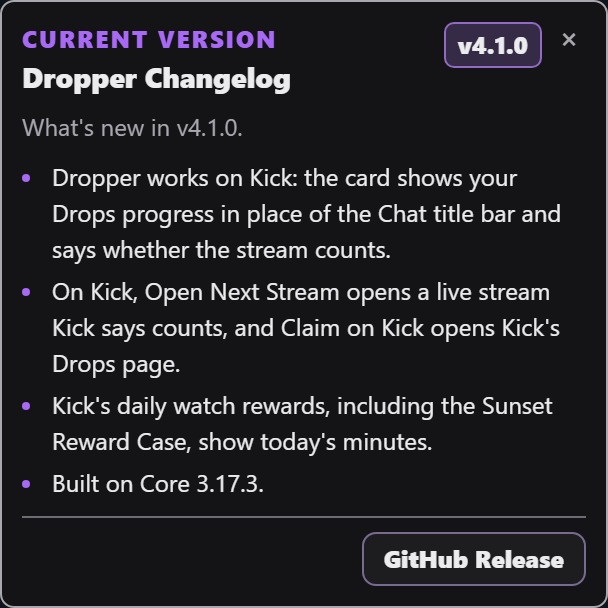
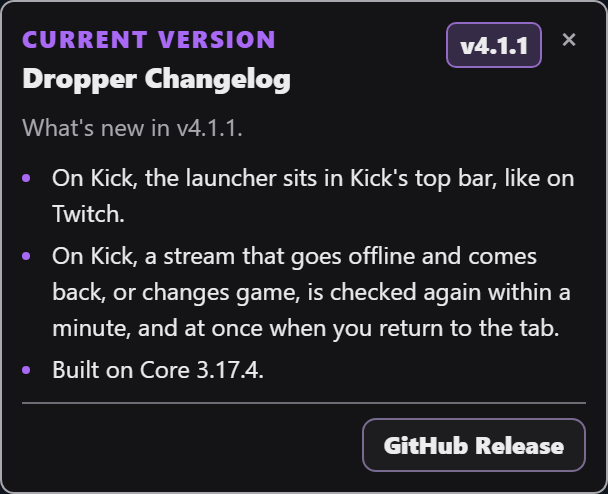
Dropper 4.1.1: Kick launcher in the top bar; stream re-checked when it returns or you come back; built on Core 3.17.4

diff --git a/dropper.user.js b/dropper.user.js
@@ -1,7 +1,7 @@
 // ==UserScript==
 // @name         Dropper for Twitch
 // @namespace    twitch-drops-helper
-// @version      4.1.0
+// @version      4.1.1
 // @description  A browser-only Twitch companion for the streams you choose to watch: track credited reward progress, manage campaigns, and collect earned rewards.
 // @icon         https://raw.githubusercontent.com/ExtraPotions/Dropper/main/assets/dropper-launcher.svg
 // @homepageURL  https://github.com/ExtraPotions/Dropper
@@ -2518,7 +2518,7 @@ const ExpLauncherFlyout = (() => {
 // exp-core owns shared UI, launcher, diagnostics, update, and coordination behavior.
 const ExtraPotionsCore = (() => {
   'use strict';
-  const version = '3.17.3';
+  const version = '3.17.4';
   const sourceVersion = version; // Backward-compatible alias for Core's own foundation version.
   const SUPPORT_URL = 'https://ko-fi.com/expdare';
   const protocol = 'exp-core-coordination-v1';
@@ -4051,16 +4051,28 @@ const ExtraPotionsCore = (() => {
   function twitchSlot() {
     const bar = document.querySelector('nav[data-a-target="top-nav-container"] .top-nav__menu');
     if (bar) watchSlotNode(bar);
-    if (!bar || bar.children.length < 3) return null;
+    return bar && bar.children.length >= 3 ? topBarSlot(bar, bar.children[1], bar.children[2], 'input[type="search"],input[data-a-target="tw-input"]') : null;
+  }
+  // Kick: the same place in its wide-window top bar (collapse and logo, centred search, then its icons last).
+  // Narrow windows swap in a different bar, and theater mode hides it; both leave the launcher in the corner.
+  function kickSlot() {
+    const search = 'input[data-testid="search"]';
+    const bar = [...document.querySelectorAll('nav')].find(node => node.querySelector(search) && visibleBox(node)) || null;
+    if (bar) watchSlotNode(bar);
+    const middle = bar && [...bar.children].find(child => child.querySelector(search)), right = bar?.lastElementChild;
+    return middle && right && right !== middle ? topBarSlot(bar, middle, right, search) : null;
+  }
+  // The slot sits between the search box (in `middle`) and the first icon in `iconGroup`.
+  function topBarSlot(bar, middle, iconGroup, searchSelector) {
     const barBox = visibleBox(bar);
     if (!barBox || barBox.height < 40 || barBox.top < -1 || barBox.top > 8) return null;
-    const search = [...bar.children[1].querySelectorAll('input[type="search"],input[data-a-target="tw-input"]')].map(visibleBox).filter(Boolean);
+    const search = [...middle.querySelectorAll(searchSelector)].map(visibleBox).filter(Boolean);
     if (!search.length) return null;
     // Theater mode draws the player over the bar, which keeps its size: the bar must be on top where search is.
     const probe = document.elementFromPoint(search[0].left + search[0].width / 2, search[0].top + search[0].height / 2);
     if (!probe || !bar.contains(probe)) return null;
-    const searchEnd = Math.max(...[...bar.children[1].querySelectorAll('input,button,a')].map(visibleBox).filter(Boolean).map(box => box.right));
-    const icons = [...bar.children[2].querySelectorAll('button,a,input')].map(visibleBox).filter(Boolean);
+    const searchEnd = Math.max(...[...middle.querySelectorAll('input,button,a')].map(visibleBox).filter(Boolean).map(box => box.right));
+    const icons = [...iconGroup.querySelectorAll('button,a,input')].map(visibleBox).filter(Boolean);
     if (!icons.length) return null;
     const right = Math.min(...icons.map(box => box.left)) - 16, left = right - FLYOUT_TILE;
     if (left < searchEnd + 8) return null;
@@ -4095,7 +4107,7 @@ const ExtraPotionsCore = (() => {
     top = Math.max(8, Math.min(innerHeight - size - 8, top));
     return {left:Math.round(left),top:Math.round(top),dock:'right',size,shape:'circle'};
   }
-  const SITE_SLOTS = Object.freeze([{ host:/(^|\.)twitch\.tv$/, find:twitchSlot },{ host:/^(www|sh)\.reddit\.com$/, find:redditSlot }]);
+  const SITE_SLOTS = Object.freeze([{ host:/(^|\.)twitch\.tv$/, find:twitchSlot },{ host:/(^|\.)kick\.com$/, find:kickSlot },{ host:/^(www|sh)\.reddit\.com$/, find:redditSlot }]);
   let slotMemo = null, frozenSlot;
   function siteSlot() {
     // While the flyout is open the launcher stays put, so the open flyout never jumps under the pointer.
@@ -10989,6 +11001,7 @@ const ExtraPotionsCore = (() => {
   const UPDATE_RELOAD_PENDING_TTL_MS = 2 * 60 * 1000;
   const QUIET_RELEASES = Object.freeze(['3.4.43', '3.4.30', '3.4.27', '3.4.26']);
   const RELEASE_NOTES = {
+    '4.1.1': ["On Kick, the launcher sits in Kick's top bar, like on Twitch.", "On Kick, a stream that goes offline and comes back, or changes game, is checked again within a minute, and at once when you return to the tab.", "Built on Core 3.17.4."],
     '4.1.0': ["Dropper works on Kick: the card shows your Drops progress in place of the Chat title bar and says whether the stream counts.", "On Kick, Open Next Stream opens a live stream Kick says counts, and Claim on Kick opens Kick's Drops page.", "Kick's daily watch rewards, including the Sunset Reward Case, show today's minutes.", "Built on Core 3.17.3."],
     '4.0.2': ["The one-line card (Drop Details off) has its own Menu button.", "The Dropper gem is purple throughout. Built on Core 3.17.2."],
     '4.0.1': ["Release notes show in full in the changelog card.", "Built on Core 3.17.1."],
@@ -13683,7 +13696,7 @@ const ExtraPotionsCore = (() => {
   // Wiring and startup: the only file that reads browser globals. It builds every module from the real storages,
   // the userscript manager's functions and the page, then runs the heartbeat. Page reading, tabs, the data layer
   // and the menu are wired here as their modules land (milestone 3).
-  const APP_VERSION = '4.1.0';
+  const APP_VERSION = '4.1.1';
   const HEARTBEAT_MS = 5000;
   const ACTIVITY_LOG_LIMIT = 40;
   const SECRET_META = /token|cookie|auth|password|integrity|secret/i;
@@ -13933,6 +13946,8 @@ const ExtraPotionsCore = (() => {
   const KICK_PROGRESS_MS = 60 * 1000;
   const KICK_CAMPAIGNS_MS = 10 * 60 * 1000;
   const KICK_ELIGIBILITY_MS = 5 * 60 * 1000;
+  // A stream ends, restarts or changes category under an open page, so the channel is looked up again this often.
+  const KICK_CHANNEL_MS = 60 * 1000;
   // Kick adds credited minutes in steps; new minutes within this window read as earning.
   const KICK_CREDIT_FRESH_MS = 6 * 60 * 1000;
   const KICK_NEXT_STREAM_CHECKS = 6;
@@ -13943,12 +13958,12 @@ const ExtraPotionsCore = (() => {
   // A Kick request that stalls must not freeze the card.
   const KICK_REQUEST_MS = 15 * 1000;
   // First path segments that are Kick's own pages, not channels.
-  const KICK_RESERVED = new Set(['', 'drops', 'browse', 'following', 'categories', 'category', 'search', 'events', 'settings', 'dashboard', 'subscriptions', 'video', 'videos', 'clips', 'clip', 'login', 'signup', 'kicks', 'messages', 'notifications', 'support', 'about', 'creator', 'terms-of-service', 'privacy-policy', 'community-guidelines', 'dmca-policy', 'api']);
+  const KICK_RESERVED = new Set(['', 'drops', 'browse', 'following', 'categories', 'category', 'search', 'events', 'settings', 'dashboard', 'subscriptions', 'video', 'videos', 'clips', 'clip', 'login', 'signup', 'kicks', 'messages', 'notifications', 'support', 'about', 'creator', 'terms-of-service', 'privacy-policy', 'community-guidelines', 'dmca-policy', 'api', 'collectibles']);
   const KICK_CHAT_HEADER = '#channel-chatroom > .contents > div:first-child';
   const KICK_SITE_BASE = Object.freeze({
     id: 'kick', name: 'Kick', twitchControls: false,
     chatToggle: `${KICK_CHAT_HEADER} > div:first-child > button`,
-    keepClear: `${KICK_CHAT_HEADER} > div:first-child > button,#injected-channel-player [class*="controls"]`,
+    keepClear: `${KICK_CHAT_HEADER} > div:first-child > button,#injected-channel-player [class*="controls"],nav:has(input[data-testid="search"])`,
     chatContent: '#channel-chatroom', chatTitle: KICK_CHAT_HEADER, stripHeader: KICK_CHAT_HEADER,
     chatTargets: '#channel-chatroom,#channel-chatroom > .contents',
     loginUrl: 'https://kick.com/login',
@@ -14123,7 +14138,7 @@ const ExtraPotionsCore = (() => {
     const kick = createKickClient({ pageFetch: typeof pageWindow.fetch === 'function' ? pageWindow.fetch.bind(pageWindow) : null, cookie: readCookie, log });
     const state = {
       progress: [], challenges: [], campaigns: [], progressAt: 0, campaignsAt: 0, error: '', loginNeeded: false,
-      slug: '', channel: null, channelFor: '', counting: null, countingAt: 0, countingFor: '',
+      slug: '', channel: null, channelAt: 0, channelFailed: '', counting: null, countingAt: 0, countingFor: '',
       credit: { id: '', minutes: null, at: 0 }, searching: false, notice: '',
     };
     let ui = null, timer = 0, busy = false;
@@ -14147,19 +14162,25 @@ const ExtraPotionsCore = (() => {
       state.campaignsAt = Date.now();
       try { state.campaigns = await kick.campaigns(); } catch (error) { log('kick-campaigns', cleanText(error?.message || error)); }
     }
-    // The open channel, then which campaigns Kick says it counts toward.
-    async function refreshChannel() {
+    // The open channel, then which campaigns Kick says it counts toward. Both are looked up again while the page
+    // stays open: a stream that ends and comes back, or moves category, gets a fresh answer within a minute.
+    async function refreshChannel(force = false) {
       const slug = kickChannelSlug();
-      if (slug !== state.slug) { state.slug = slug; state.channel = null; state.channelFor = ''; state.counting = null; state.countingFor = ''; }
-      if (!slug) return;
-      if (state.channelFor !== slug) {
-        state.channelFor = slug;
-        try { state.channel = await kick.channel(slug); } catch (error) { state.channel = null; log('kick-channel', cleanText(error?.message || error), { slug }); return; }
+      if (slug !== state.slug) { state.slug = slug; state.channel = null; state.channelAt = 0; state.channelFailed = ''; state.counting = null; state.countingFor = ''; }
+      if (!slug || (!force && document.hidden)) return;
+      if (force || Date.now() - state.channelAt >= KICK_CHANNEL_MS) {
+        state.channelAt = Date.now();
+        try { state.channel = await kick.channel(slug); state.channelFailed = ''; } catch (error) {
+          // A Kick page that is not a channel fails every minute; the activity log notes it once.
+          if (state.channelFailed !== slug) { state.channelFailed = slug; log('kick-channel', cleanText(error?.message || error), { slug }); }
+          if (!state.channel) return;
+        }
       }
       const channel = state.channel;
-      if (!channel?.id || !channel.live || !channel.categoryId) return;
+      // Offline or between categories: no answer is better than the last stream's.
+      if (!channel?.id || !channel.live || !channel.categoryId) { state.counting = null; state.countingFor = ''; return; }
       const key = `${channel.id}:${channel.categoryId}`;
-      if (state.countingFor === key && Date.now() - state.countingAt < KICK_ELIGIBILITY_MS) return;
+      if (!force && state.countingFor === key && Date.now() - state.countingAt < KICK_ELIGIBILITY_MS) return;
       state.countingFor = key; state.countingAt = Date.now();
       try { state.counting = new Set((await kick.counting(channel.id, channel.categoryId)).map(kickCampaignId).filter(Boolean)); }
       catch (error) { state.counting = null; log('kick-counting', cleanText(error?.message || error), { slug }); }
@@ -14176,7 +14197,7 @@ const ExtraPotionsCore = (() => {
       if (busy) return;
       busy = true;
       try {
-        await refreshChannel();
+        await refreshChannel(force);
         await refreshProgress(force);
         await refreshCampaigns(force);
       } finally { busy = false; }

diff --git a/docs/usage.md b/docs/usage.md
@@ -22,11 +22,11 @@ Stream switching starts at **Follow Campaign Order** in the first eligible tab. 
 
 ## Kick
 
-On a Kick channel, the card takes the place of the Chat title bar and shows the reward Kick is counting for you, with credited minutes. **Not counting** means Kick does not credit this stream toward your campaign; **Open Next Stream** in **Campaigns** opens a live stream Kick says counts. When a reward is earned, **Claim on Kick** opens Kick's Drops page, where you claim it. Kick's daily watch rewards, such as the Sunset Reward Case, count on any live stream: **Campaigns** shows today's minutes, and the card follows the featured one when the open stream doesn't count toward a Drops campaign. You open the case on Kick. Stream switching and Settings are Twitch-only. Kick decides eligibility and credit.
+On Kick, the launcher sits in Kick's top bar. On a Kick channel, the card takes the place of the Chat title bar and shows the reward Kick is counting for you, with credited minutes. **Not counting** means Kick does not credit this stream toward your campaign; **Open Next Stream** in **Campaigns** opens a live stream Kick says counts. When a reward is earned, **Claim on Kick** opens Kick's Drops page, where you claim it. Kick's daily watch rewards, such as the Sunset Reward Case, count on any live stream: **Campaigns** shows today's minutes, and the card follows the featured one when the open stream doesn't count toward a Drops campaign. You open the case on Kick. Stream switching and Settings are Twitch-only. Kick decides eligibility and credit; Dropper checks the open stream again every minute, so a stream that goes offline, comes back or changes category is picked up without a reload.
 
 ## Shared menu
 
-Each section is a drawer: opening one closes the others, and the menu reopens on the one you used last. Open **System** for status, diagnostics, troubleshooting and Reset. Menu sizing is in **Look**. With multiple ExtraPotions products on the same page, open the shared launcher and choose a product; on Twitch each product has its own icon in the top bar. Donations are available from the heart on the progress card.
+Each section is a drawer: opening one closes the others, and the menu reopens on the one you used last. Open **System** for status, diagnostics, troubleshooting and Reset. Menu sizing is in **Look**. With multiple ExtraPotions products on the same page, open the shared launcher and choose a product; on Twitch and Kick each product has its own icon in the top bar. Donations are available from the heart on the progress card.
 
 ## Support and verification
 

diff --git a/CHANGELOG.md b/CHANGELOG.md
@@ -1,3 +1,9 @@
+## 4.1.1 — 2026-11-15
+
+- On Kick, the launcher sits in Kick's top bar, like on Twitch.
+- On Kick, a stream that goes offline and comes back, or changes game, is checked again within a minute, and at once when you return to the tab.
+- Built on Core 3.17.4.
+
 ## 4.1.0 — 2026-11-14
 
 - Dropper works on Kick: the card shows your Drops progress in place of the Chat title bar and says whether the stream counts.
